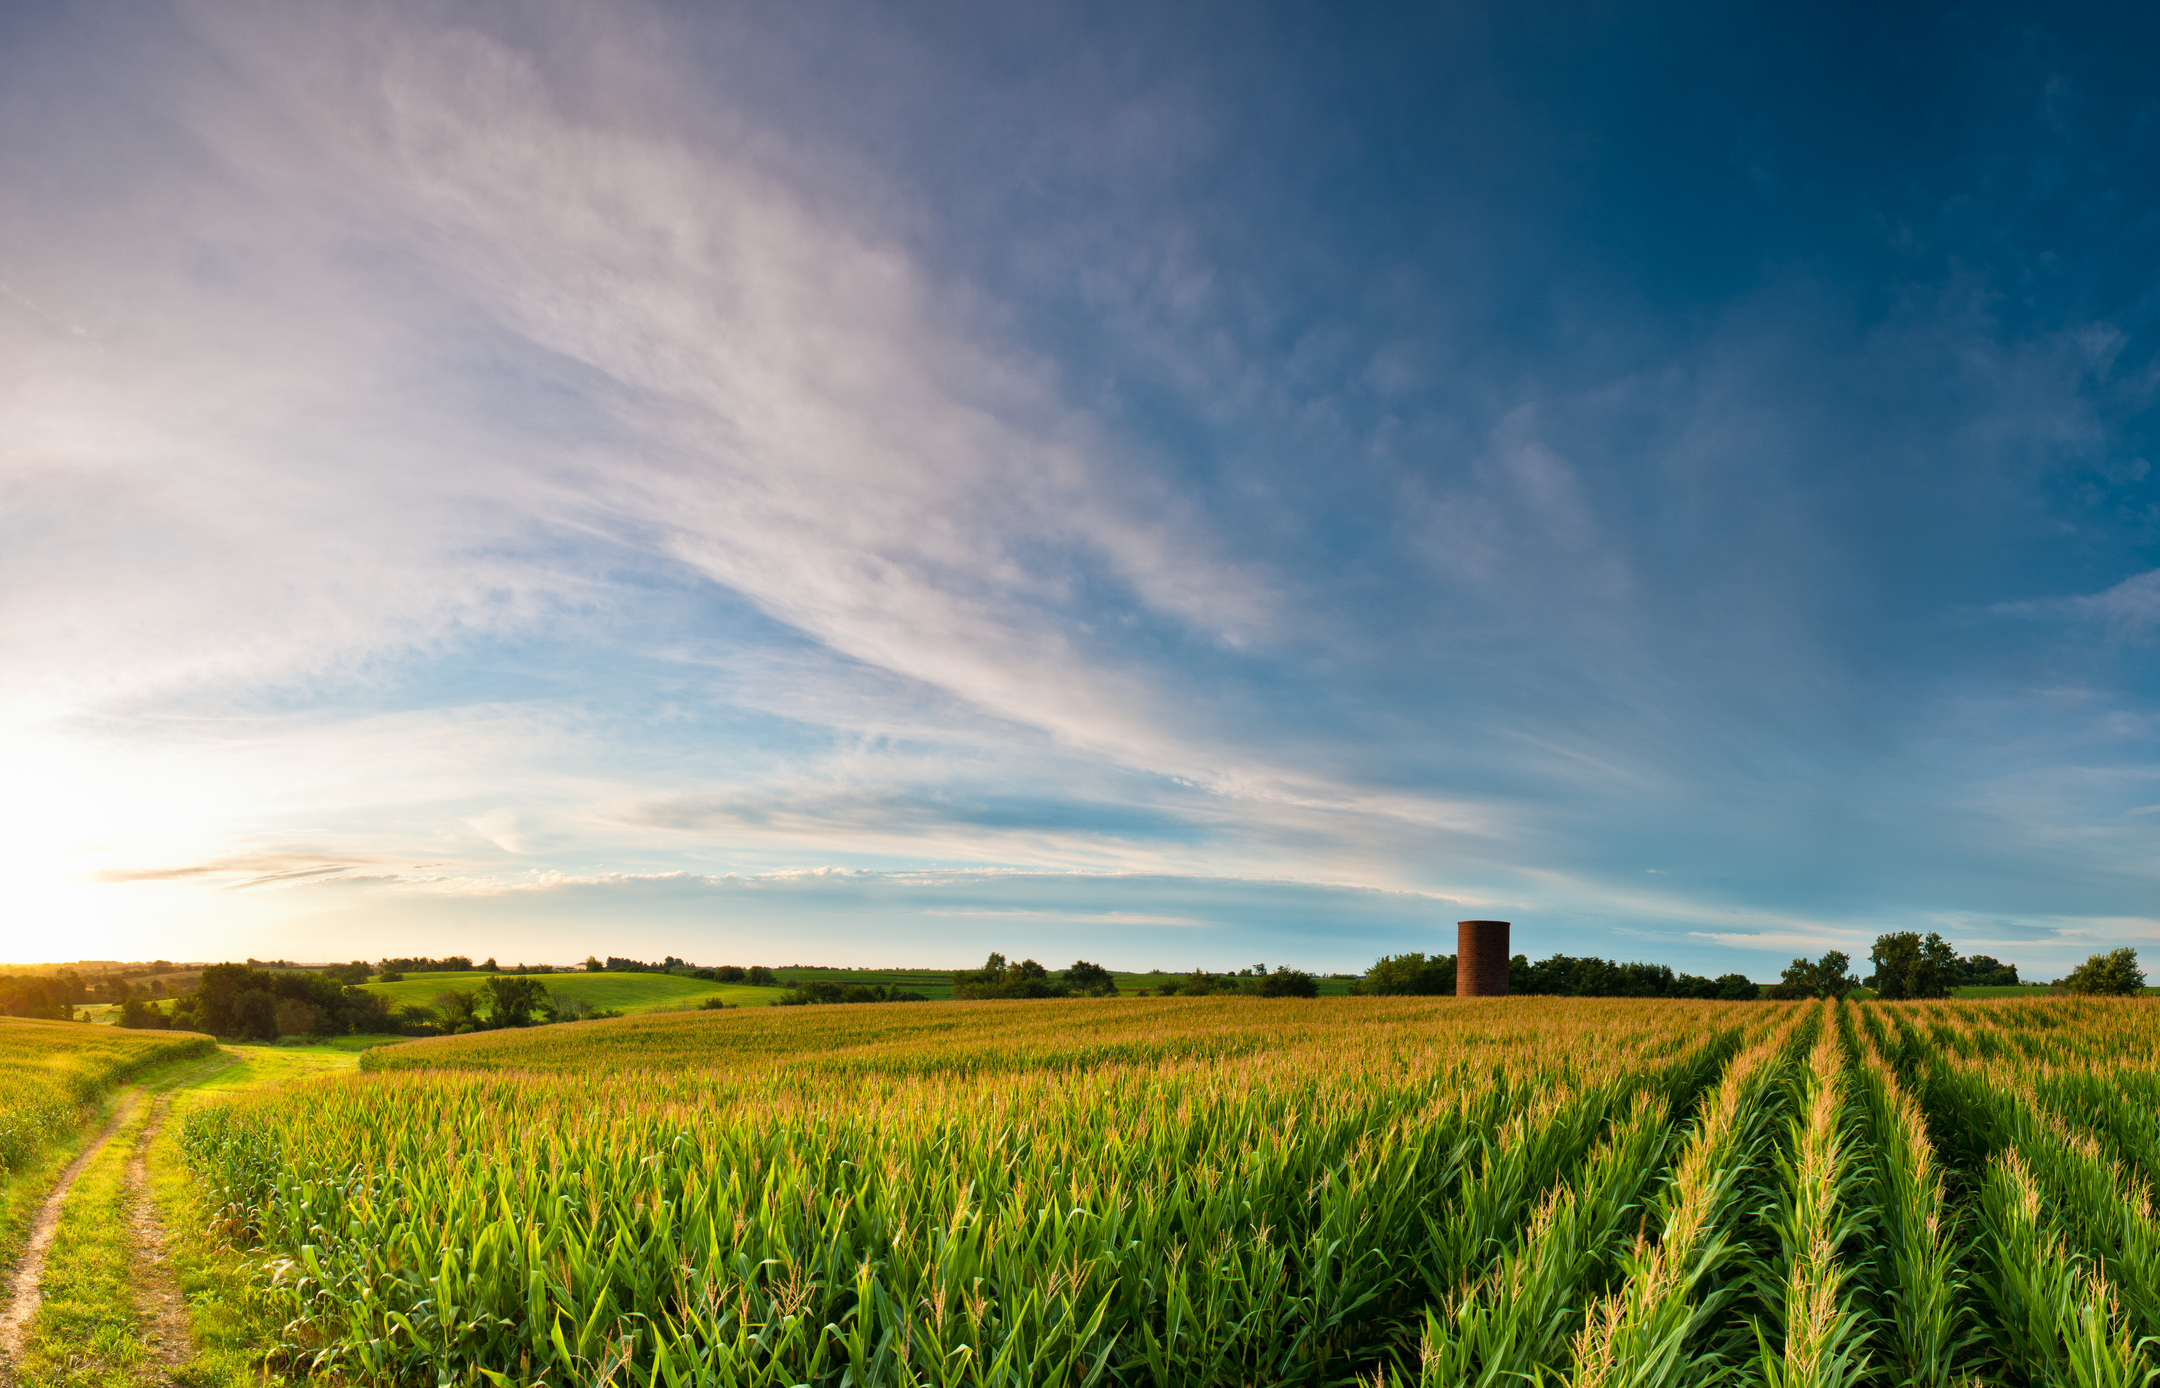
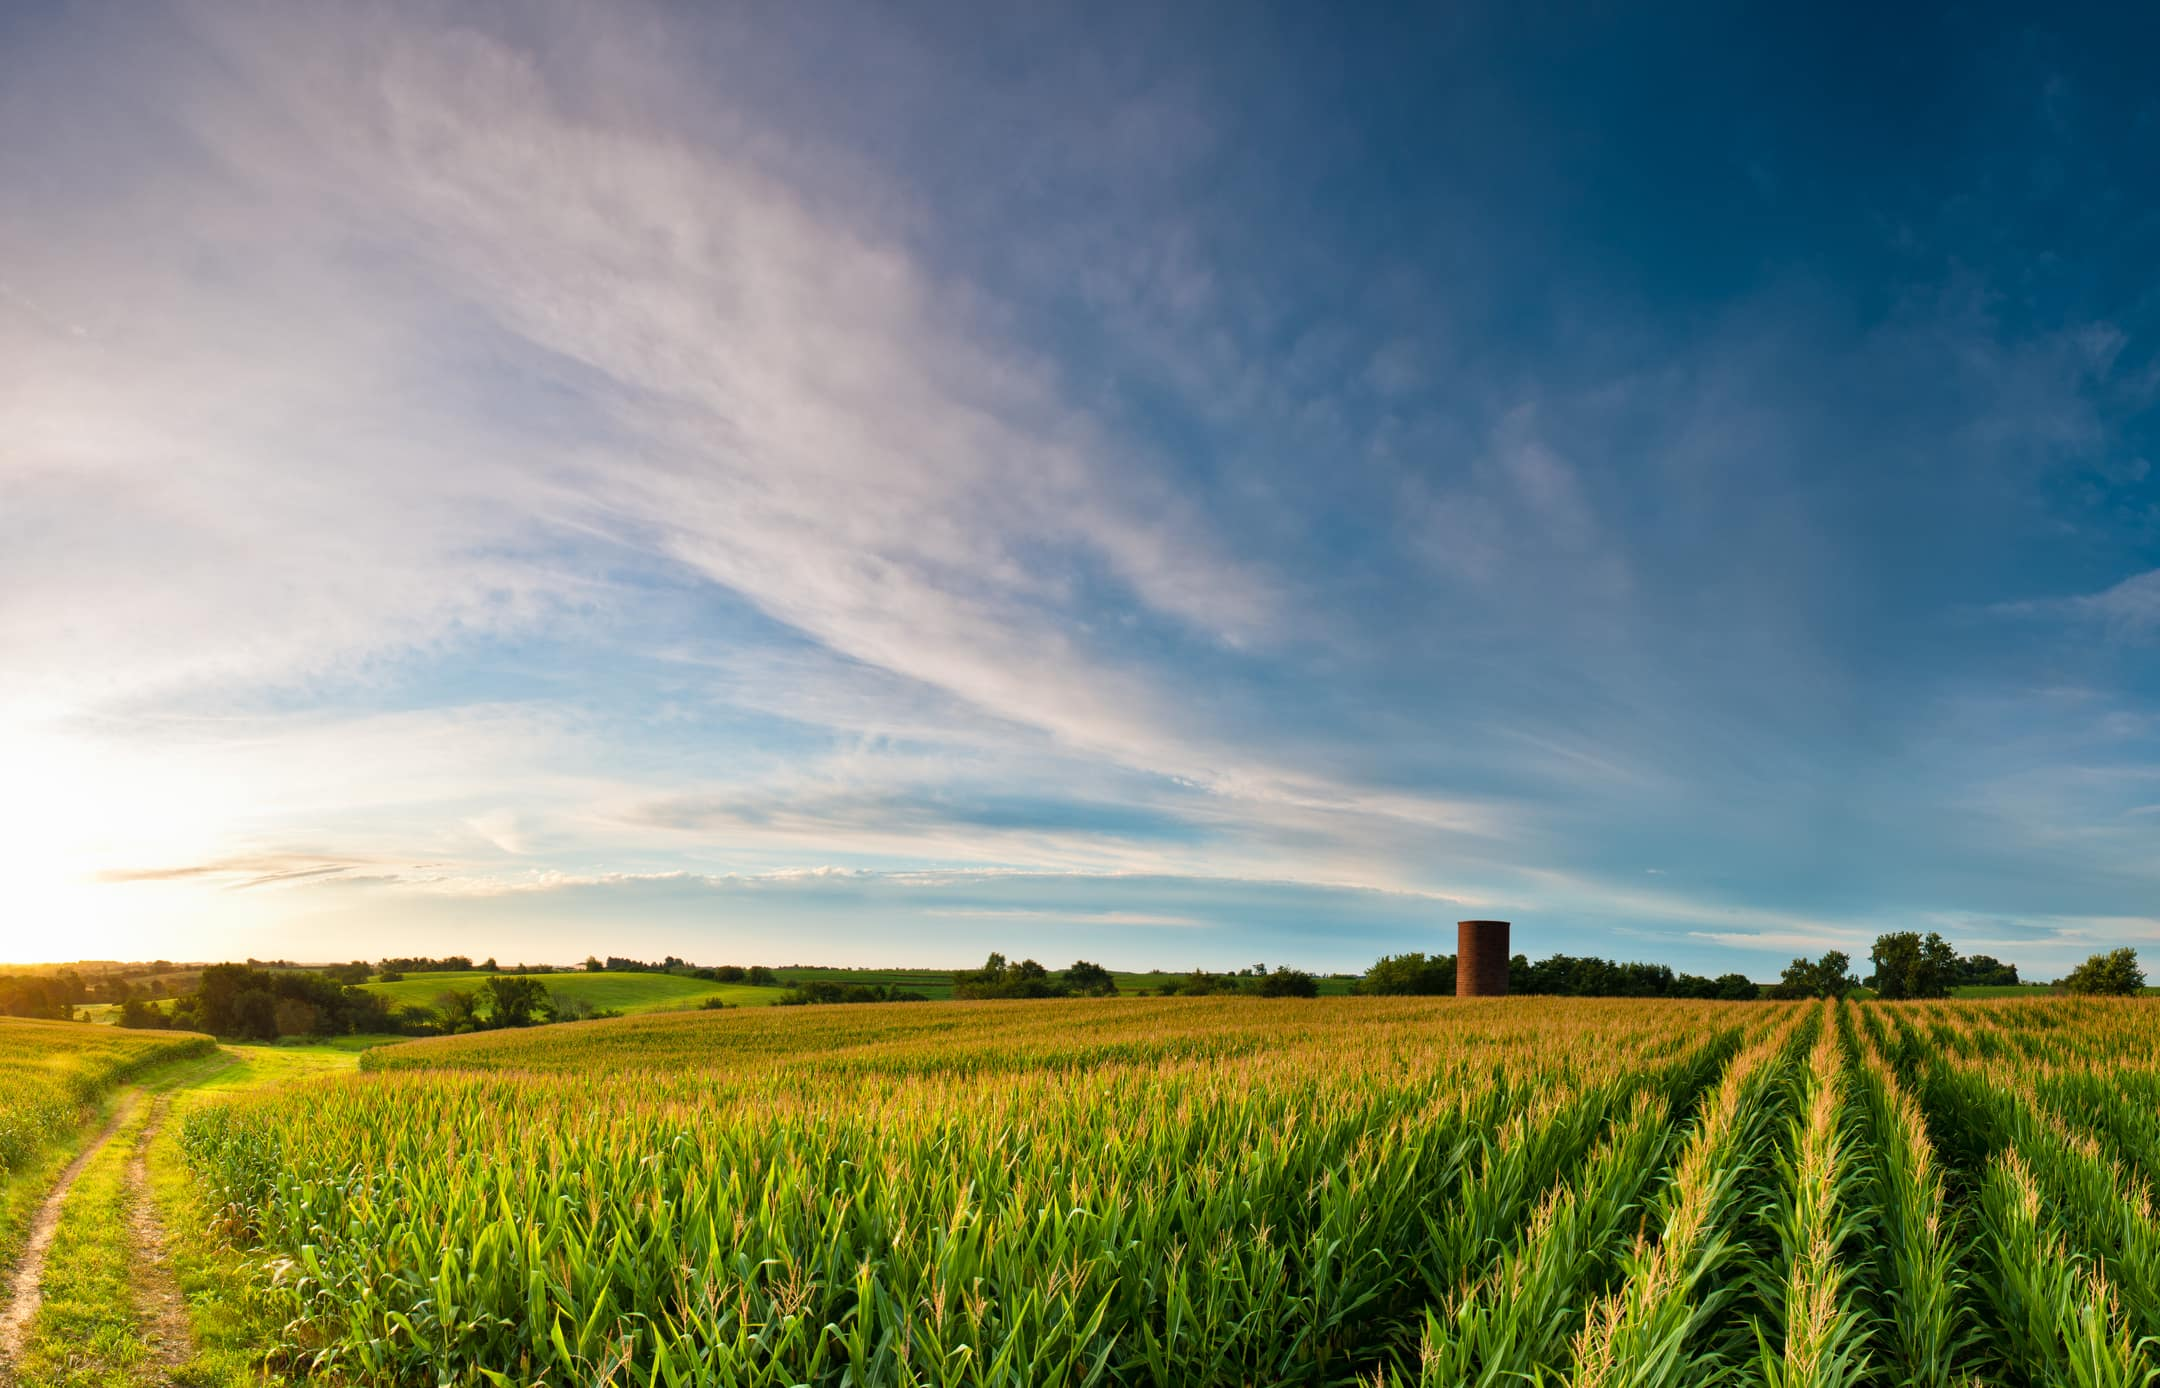
Speed hero load and add service media slide-up
Recompress the hero JPEG (~2.1MB to ~270KB), add quality/fetchPriority
hints, move the landscape fade to CSS, and lighten the mobile top wash.
Service Showcase media now slides up into the clipped frame on tab change
instead of opacity-flashing, with image preloading to avoid blank frames.

diff --git a/src/components/service-showcase/service-showcase.tsx b/src/components/service-showcase/service-showcase.tsx
@@ -1,7 +1,7 @@
 "use client";
 
 import { LayoutGroup, useReducedMotion } from "framer-motion";
-import { useId, useState, type CSSProperties } from "react";
+import { useEffect, useId, useState, type CSSProperties } from "react";
 import { cn } from "@/lib/utils";
 import { SS_DEFAULTS } from "./constants";
 import { SERVICE_ITEMS } from "./data";
@@ -38,6 +38,22 @@ export function ServiceShowcase({
 
   const reducedMotion =
     forceReducedMotion || !animationEnabled || !!prefersReduced;
+
+  useEffect(() => {
+    const urls = new Set<string>();
+    for (const item of items) {
+      urls.add(item.image.src);
+      if (item.comparison) {
+        urls.add(item.comparison.before.src);
+        urls.add(item.comparison.after.src);
+      }
+    }
+    urls.forEach((src) => {
+      const image = new window.Image();
+      image.decoding = "async";
+      image.src = src;
+    });
+  }, [items]);
 
   const onChange = (id: string, source: ServiceChangeSource) => {
     setChangeSource(source);

diff --git a/app/globals.css b/app/globals.css
@@ -71,7 +71,19 @@ section[id] { scroll-margin-top: 72px; }
 .hero { position: relative; min-height: calc(100dvh - 72px); display: grid; align-items: center; overflow: hidden; isolation: isolate; background: var(--paper); }
 .hero-media { position: absolute; z-index: 0; inset: 0; overflow: hidden; pointer-events: none; }
 .hero-media::after { content: ""; position: absolute; inset: 0; background: linear-gradient(to bottom, rgb(254 254 254 / 5%) 0%, rgb(254 254 254 / 18%) 52%, var(--paper) 100%), linear-gradient(to right, rgb(254 254 254 / 97%) 0%, rgb(254 254 254 / 84%) 40%, rgb(254 254 254 / 20%) 72%); }
-.hero-landscape { width: 100%; height: 100%; max-width: none; object-fit: cover; object-position: center; }
+.hero-landscape {
+  width: 100%;
+  height: 100%;
+  max-width: none;
+  object-fit: cover;
+  object-position: center;
+  opacity: 0;
+  transform: scale(1.02);
+  animation: hero-landscape-in 900ms cubic-bezier(.23, 1, .32, 1) forwards;
+}
+@keyframes hero-landscape-in {
+  to { opacity: 1; transform: scale(1); }
+}
 .hero-grid { position: relative; z-index: 2; display: grid; grid-template-columns: minmax(0, 1.18fr) minmax(340px, .82fr); column-gap: clamp(48px, 5.5vw, 88px); align-items: center; }
 .hero-copy { max-width: 640px; }
 .hero-copy h1 { margin: 0 0 28px; max-width: 900px; line-height: .93; }
@@ -206,7 +218,7 @@ section[id] { scroll-margin-top: 72px; }
   .brand img { width: auto; height: 44px; }
   .mobile-nav { inset: 70px 0 0; }
   .hero { min-height: max(370px, calc(100dvh - 270px)); padding-block: clamp(32px, 7dvh, 54px); }
-  .hero-media::after { background: linear-gradient(to bottom, rgb(254 254 254 / 42%) 0%, rgb(254 254 254 / 70%) 52%, var(--paper) 100%); }
+  .hero-media::after { background: linear-gradient(to bottom, rgb(254 254 254 / 12%) 0%, rgb(254 254 254 / 48%) 52%, var(--paper) 100%); }
   .hero-landscape { object-position: 58% center; }
   .hero-copy { max-width: none; text-align: center; }
   .hero-copy h1 { margin-bottom: 22px; }
@@ -253,6 +265,7 @@ section[id] { scroll-margin-top: 72px; }
 @media (prefers-reduced-motion: reduce) {
   html { scroll-behavior: auto; }
   *, *::before, *::after { animation-duration: .01ms !important; animation-iteration-count: 1 !important; transition-duration: .01ms !important; scroll-behavior: auto !important; }
+  .hero-landscape { opacity: 1; transform: none; animation: none; }
   .trust-strip { overflow-x: auto; }
   .trust-track { animation: none; will-change: auto; }
   .trust-group + .trust-group { display: none; }

diff --git a/src/components/service-showcase/service-panel.tsx b/src/components/service-showcase/service-panel.tsx
@@ -41,6 +41,8 @@ export function ServicePanel({
   const showComparison = shouldShowComparison(item, imageMode);
   const enterDuration = reduce ? 0 : Math.min(panelDurationMs, 280) / 1000;
   const exitDuration = reduce ? 0 : Math.min(panelDurationMs * .68, 190) / 1000;
+  const mediaEnterDuration = reduce ? 0 : 0.42;
+  const mediaExitDuration = reduce ? 0 : 0.34;
   const ease = [0.23, 1, 0.32, 1] as const;
 
   return (
@@ -59,14 +61,13 @@ export function ServicePanel({
             <motion.div
               key={`media-${item.id}`}
               className="absolute inset-0 will-change-transform"
-              initial={reduce ? false : { opacity: 0, y: "3%" }}
-              animate={{ opacity: 1, y: "0%" }}
+              initial={reduce ? false : { y: "100%" }}
+              animate={{ y: "0%" }}
               exit={{
-                opacity: 0,
-                y: reduce ? "0%" : "-1.5%",
-                transition: { duration: exitDuration, ease },
+                y: reduce ? "0%" : "-100%",
+                transition: { duration: mediaExitDuration, ease },
               }}
-              transition={{ duration: enterDuration, ease }}
+              transition={{ duration: mediaEnterDuration, ease }}
             >
               {showComparison && item.comparison ? (
                 <BeforeAfterSlider

diff --git a/components/interactive.tsx b/components/interactive.tsx
@@ -166,12 +166,6 @@ export function MotionController({ children }: { children: ReactNode }) {
       ], { duration: 700, delay: 120 + index * 160, easing: ease });
     });
 
-    const landscape = root.current.querySelector("[data-hero-landscape]");
-    if (landscape) animate(landscape, [
-      { opacity: 0, scale: 1.02 },
-      { opacity: 1, scale: 1 },
-    ], { duration: 900, easing: ease });
-
     const logo = root.current.querySelector("[data-hero-logo]");
     if (logo) animate(logo, [
       { opacity: 0, scale: .97 },

diff --git a/app/page.tsx b/app/page.tsx
@@ -36,7 +36,7 @@ export default function Home() {
         <main id="main">
           <section className="hero section-pad" aria-labelledby="hero-title">
             <div className="hero-media" aria-hidden="true">
-              <Image className="hero-landscape" data-hero-landscape src="/images/iowa-cornfield-hero.jpg" alt="" width={2160} height={1388} sizes="100vw" priority />
+              <Image className="hero-landscape" data-hero-landscape src="/images/iowa-cornfield-hero.jpg" alt="" width={2160} height={1388} sizes="100vw" quality={70} priority fetchPriority="high" />
             </div>
             <div className="container hero-grid">
               <div className="hero-copy" data-hero-copy>

diff --git a/design.md b/design.md
@@ -34,7 +34,7 @@ The mobile menu contains Services, About, and FAQ followed by the Call/Text acti
 
 Document order is Hero, Services, About, FAQ, and Contact. Navigation follows that same sequence.
 
-- Hero: asymmetric landscape and conversion split, with the headline aligned to the logo field. The display heading uses a `.93` line-height ratio. The deck forms two intentional lines on desktop and four shorter lines on mobile. On mobile it occupies approximately one usable viewport beneath the header while keeping both CTAs visible.
+- Hero: asymmetric landscape and conversion split, with the headline aligned to the logo field. The display heading uses a `.93` line-height ratio. The deck forms two intentional lines on desktop and four shorter lines on mobile. On mobile it occupies approximately one usable viewport beneath the header while keeping both CTAs visible. The mobile paper wash starts lighter at the top (`12%` opacity) so more of the Iowa landscape remains visible, then strengthens toward the paper ground.
 - Services: left-stacked introduction and a single Service Showcase. The highlight strip is the page's only perpetual animation.
 - About: split composition with the Iowa phone mark and three unnumbered process rows.
 - FAQ: centered introduction over a constrained disclosure list. FAQ content is immediately available and does not receive an entrance animation.
@@ -56,7 +56,7 @@ Meaningful entrances are limited to these moments:
 - Header brand mark slides up into the clipped nav frame from `translateY(100%)` over 650ms after a 60ms delay. Reduced-motion users see it in place immediately.
 - Hero heading uses a per-letter 3D X-axis flip entrance (`LetterFlipFrame`, 1050ms per glyph, 60ms stagger, `cubic-bezier(0.22, 1, 0.36, 1)`). Reduced-motion users see the static headline immediately.
 - Hero deck and CTAs rise 24px over 700ms in a top-to-bottom sequence after the heading. The sequence begins after 120ms and uses a 160ms stagger.
-- Landscape fades while settling from `scale(1.02)` over 900ms.
+- Landscape fades in while settling from `scale(1.02)` over 900ms via CSS (`hero-landscape-in`). Reduced-motion users see the image at full opacity immediately.
 - Hero logo fades while settling from `scale(.97)` over 800ms after a 220ms delay.
 - Section introductions rise 20px and fade once over 550ms.
 - Scroll entrances use a measured `cubic-bezier(.3,.35,.4,1)` curve and begin slightly visible at `.08` opacity to avoid a hard flash as content crosses the viewport edge.
@@ -75,7 +75,7 @@ The About Facebook link has no resting underline. Only the word “Facebook” r
 
 The mobile menu remains mounted so opening and closing can reverse cleanly. The two-line hamburger uses interruptible CSS transforms. The menu locks body scrolling, moves focus to the first link, contains Tab navigation, closes with Escape or navigation, and restores focus to the trigger.
 
-The Service Showcase keeps a square tab row, a single editorial image field, and a compact copy panel. Pointer changes use a zero-bounce shared-layout spring under 300ms. Arrow keys plus Home and End update selection without smooth scrolling or panel choreography. Panel changes use a short concurrent opacity and 3 percent vertical transition, with faster exits. Showcase CTAs act directly instead of scrolling to Contact.
+The Service Showcase keeps a square tab row, a single editorial image field, and a compact copy panel. Pointer changes use a zero-bounce shared-layout spring under 300ms. Arrow keys plus Home and End update selection without smooth scrolling or panel choreography. Media changes slide the incoming image up from below the clipped frame (`y: 100%` → `0%`, 420ms) while the outgoing image exits upward (`y: -100%`, 340ms). Copy still uses a short concurrent opacity and 3 percent vertical transition, with faster exits. Showcase CTAs act directly instead of scrolling to Contact.
 
 Residential and Commercial use matched, owner-approved before-and-after image pairs. The comparison slider updates its clip, divider, handle, and ARIA values directly in the DOM. Pointer capture is preserved, pointer movement is limited to one update per animation frame, and keyboard control supports Arrow keys, Shift increments, Home, and End.
 